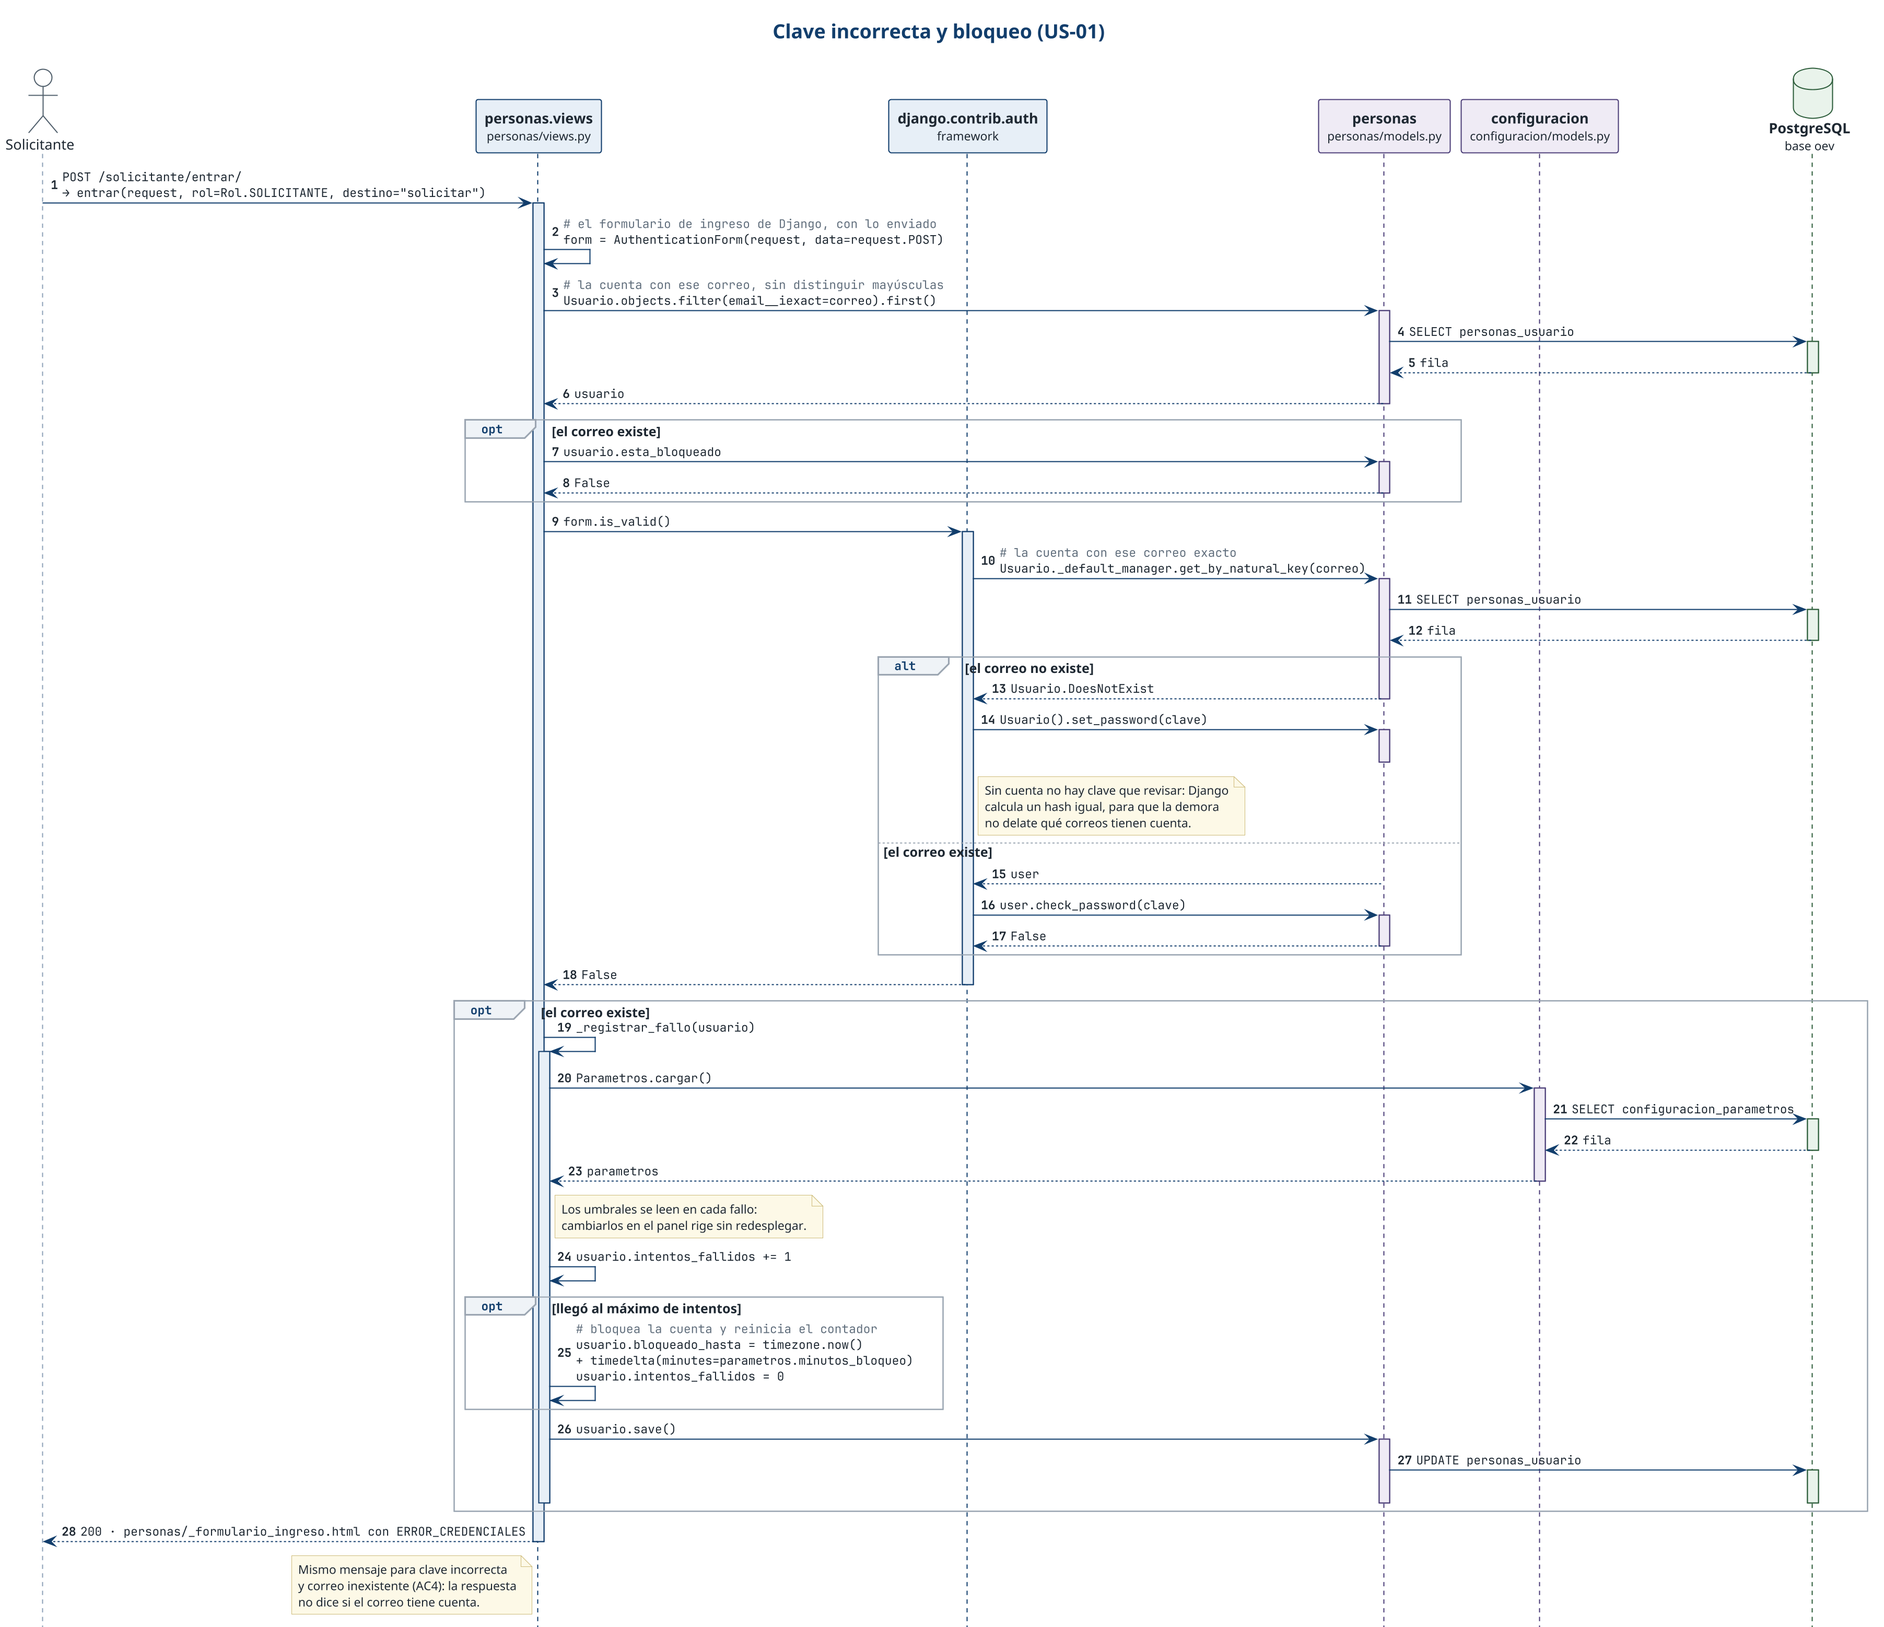
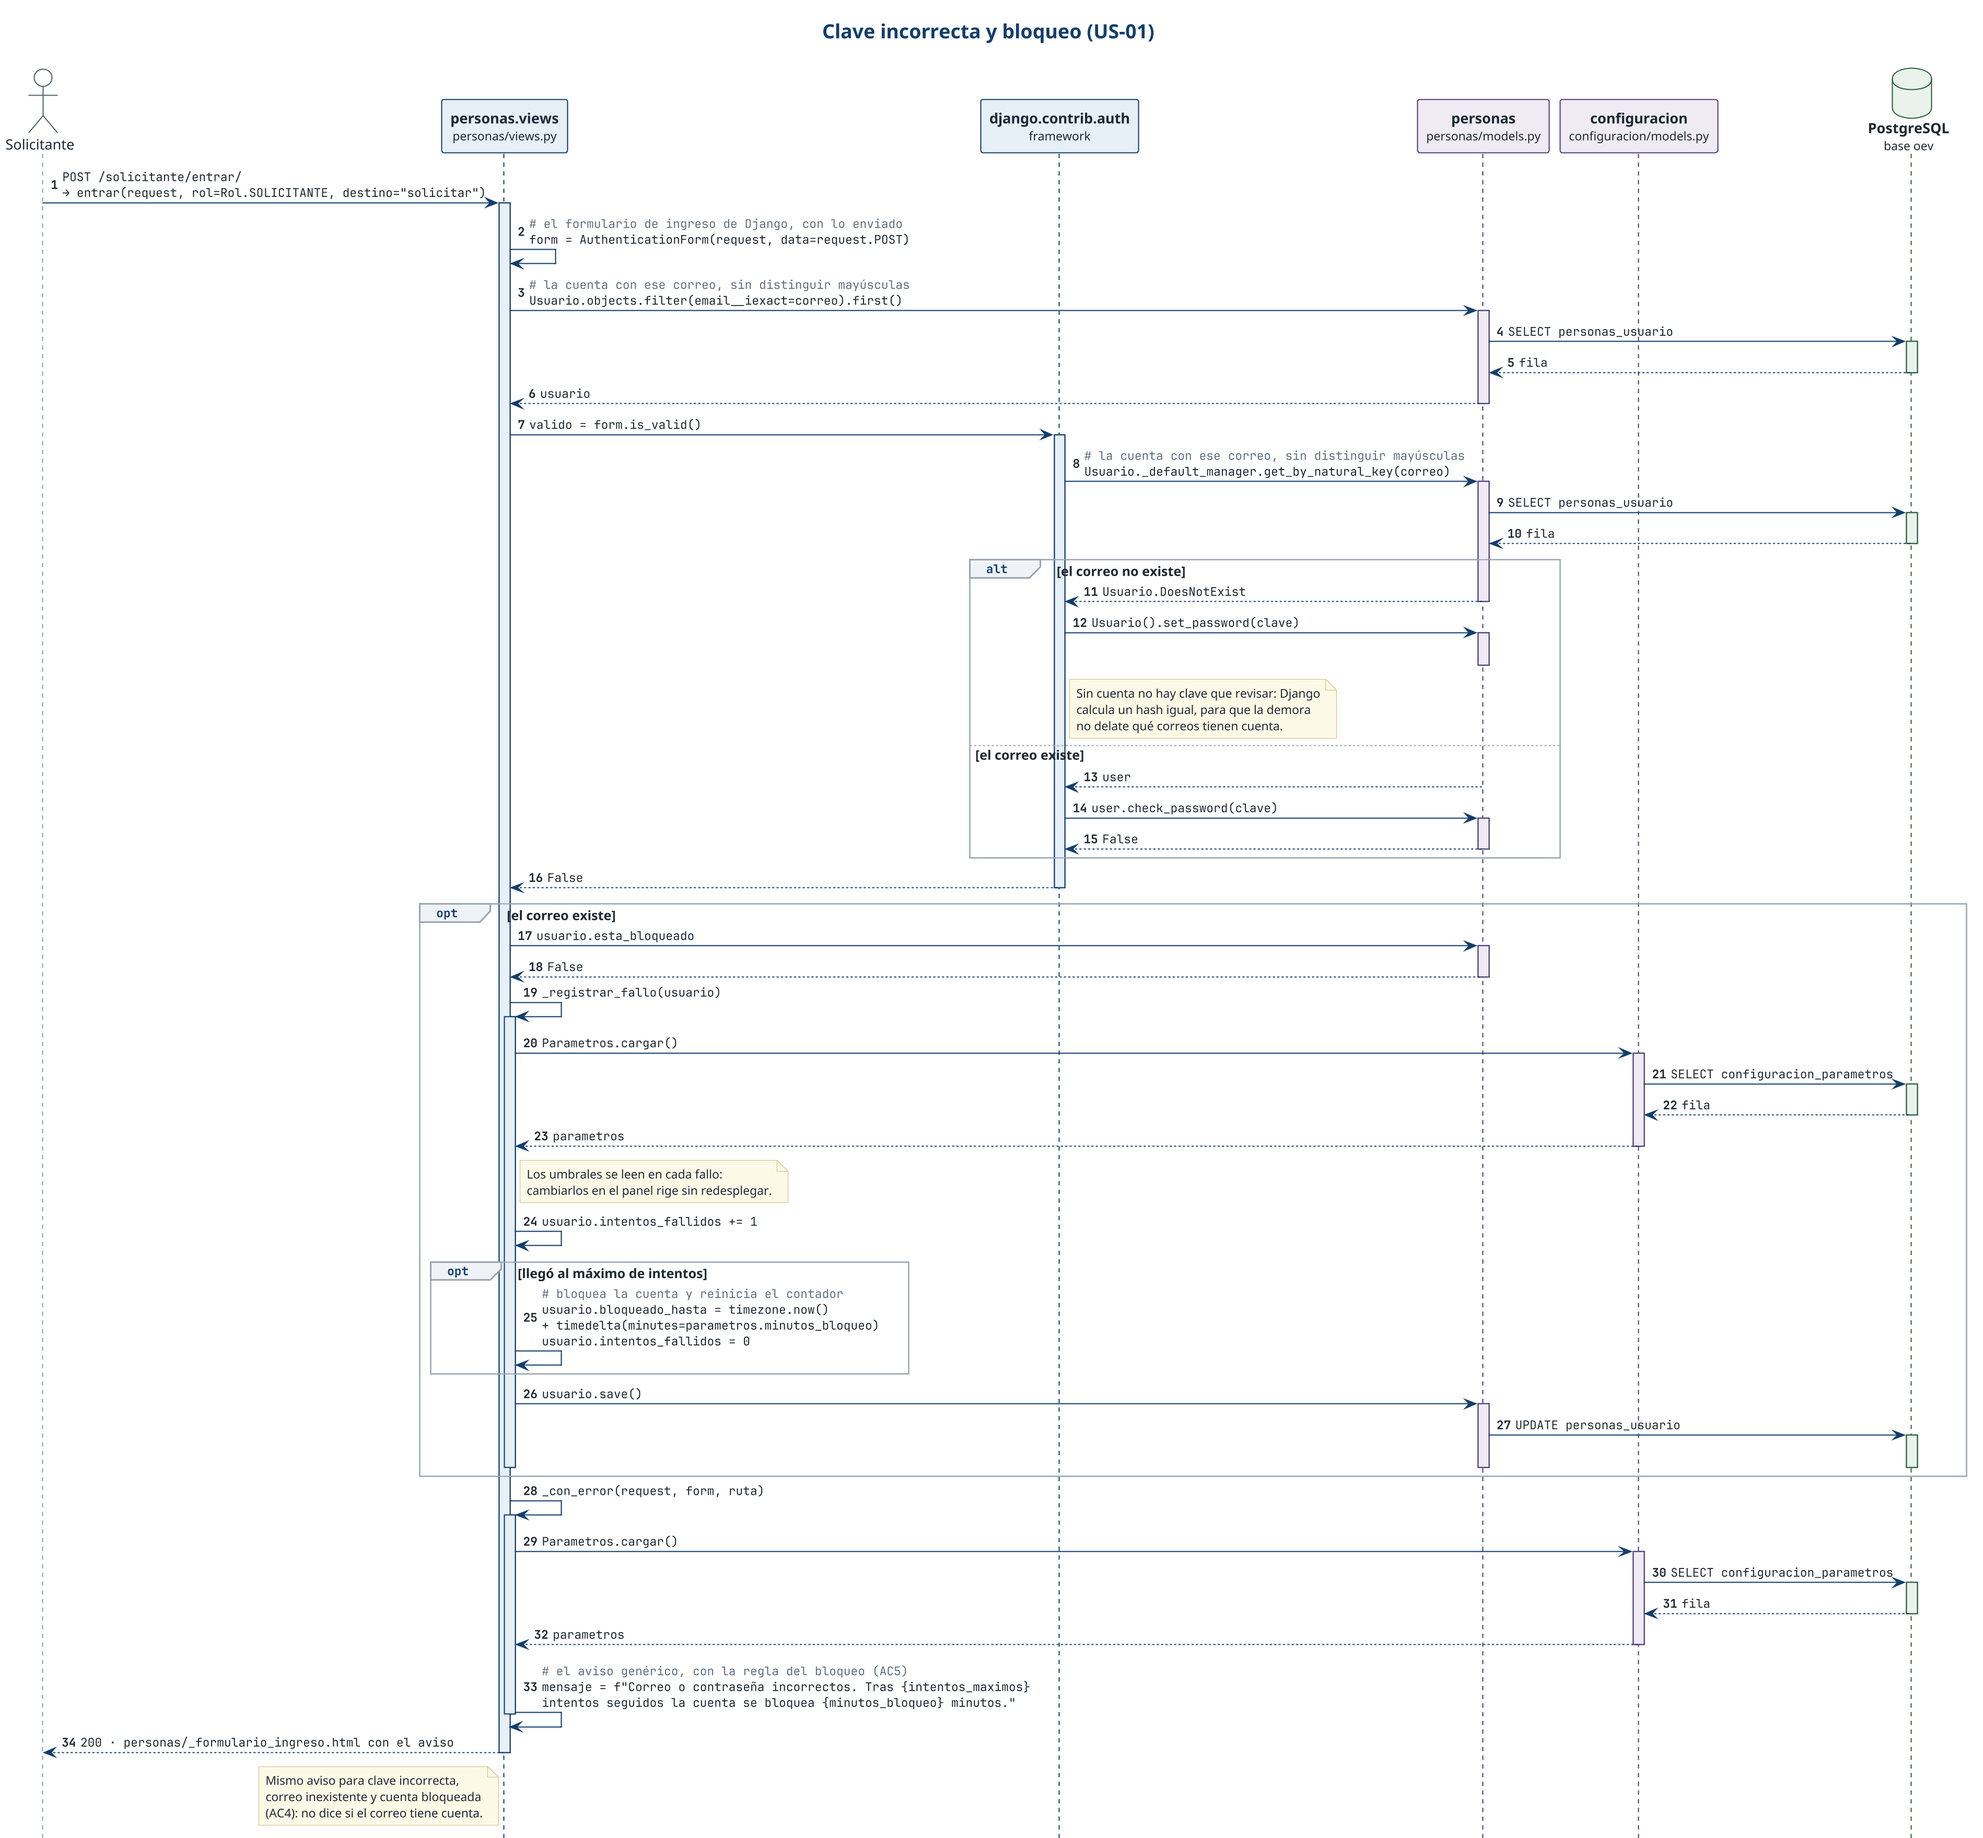
fix(personas): un solo aviso al fallar el ingreso y correo sin mayúsculas (#25)

diff --git a/src/personas/views.py b/src/personas/views.py
@@ -12,9 +12,6 @@ from configuracion.models import Parametros
 
 from .models import Rol, Usuario
 
-# AC4: el mismo texto para credenciales malas y para correo inexistente. Decir
-# "ese correo no existe" le regalaría al atacante la lista de cuentas.
-ERROR_CREDENCIALES = "Correo o contraseña incorrectos."
 
 
 def destino_tras_login(usuario):
@@ -38,7 +35,16 @@ def destino_tras_login(usuario):
     return reverse("solicitar")
 
 
-def _con_error(request, form, mensaje, ruta):
+def _con_error(request, form, ruta):
+    """AC4: el mismo texto para clave mala, correo inexistente, cuenta sin el rol
+    de la puerta y cuenta bloqueada. Cualquier diferencia le regalaría al atacante
+    la lista de cuentas. La regla del bloqueo (AC5) va en el texto para que quien
+    quedó bloqueado entienda por qué no entra."""
+    parametros = Parametros.cargar()
+    mensaje = (
+        f"Correo o contraseña incorrectos. Tras {parametros.intentos_maximos} intentos "
+        f"seguidos la cuenta se bloquea {parametros.minutos_bloqueo} minutos."
+    )
     return render(
         request,
         "personas/_formulario_ingreso.html",
@@ -81,20 +87,20 @@ def entrar(request, rol, destino, ruta, titulo):
 
     form = AuthenticationForm(request, data=request.POST)
     usuario = Usuario.objects.filter(email__iexact=request.POST.get("username", "")).first()
+    # Se revisa la clave aunque la cuenta esté bloqueada: si no, la respuesta
+    # rápida (sin calcular el hash) delataría qué cuentas existen.
+    valido = form.is_valid()
 
     if usuario and usuario.esta_bloqueado:
-        minutos = max(1, int((usuario.bloqueado_hasta - timezone.now()).total_seconds() // 60) + 1)
-        return _con_error(
-            request, form, f"Cuenta bloqueada. Vuelve a intentar en {minutos} minutos.", ruta
-        )
+        return _con_error(request, form, ruta)
 
-    if form.is_valid():
+    if valido:
         entrante = form.get_user()
         # Una puerta de rol no responde "no eres administrador". Ese mensaje la
         # convertiría en un oráculo para saber qué correos existen y cuáles
         # mandan, así que contesta lo mismo que una clave mala, y sin sesión.
         if not _puede_pasar(entrante, rol):
-            return _con_error(request, form, ERROR_CREDENCIALES, ruta)
+            return _con_error(request, form, ruta)
         if entrante.intentos_fallidos or entrante.bloqueado_hasta:
             entrante.intentos_fallidos = 0
             entrante.bloqueado_hasta = None
@@ -105,7 +111,7 @@ def entrar(request, rol, destino, ruta, titulo):
 
     if usuario:
         _registrar_fallo(usuario)
-    return _con_error(request, form, ERROR_CREDENCIALES, ruta)
+    return _con_error(request, form, ruta)
 
 
 @login_required

diff --git a/src/personas/models.py b/src/personas/models.py
@@ -52,6 +52,12 @@ class UsuarioManager(UserManager):
         extra.setdefault("is_superuser", True)
         return self.create_user(email, password, **extra)
 
+    def get_by_natural_key(self, email):
+        # US-01: el correo no distingue mayúsculas, igual que la búsqueda con que
+        # la vista cuenta los intentos. Antes «Ana@uach.cl» con su clave correcta
+        # sumaba fallos hasta quedar bloqueada.
+        return self.get(email__iexact=email)
+
 
 class Usuario(AbstractUser):
     """US-01 AC1: se entra con correo, no con nombre de usuario.
@@ -78,6 +84,12 @@ class Usuario(AbstractUser):
 
     def __str__(self):
         return self.email
+
+    def save(self, *args, **kwargs):
+        # En minúsculas, así dos cuentas no pueden diferir solo en mayúsculas y
+        # `get_by_natural_key` nunca encuentra dos.
+        self.email = self.email.lower()
+        super().save(*args, **kwargs)
 
     def tiene_rol(self, *roles):
         """Si pertenece a alguno de esos grupos, en una sola consulta."""

diff --git a/docs/uso.md b/docs/uso.md
@@ -42,18 +42,20 @@ desde el sitio; las otras tres las conoce quien las usa.
 ### Si no puedes entrar
 
 Si el correo o la contraseña no coinciden, aparece el aviso **Correo o
-contraseña incorrectos.** y el correo queda escrito para que no tengas que
-repetirlo.
+contraseña incorrectos.**, junto con cuántos intentos seguidos bloquean la cuenta
+y por cuántos minutos. El correo queda escrito para que no tengas que repetirlo.
+Las mayúsculas del correo no importan.
 
 ![Aviso de credenciales incorrectas](uso/us-01/ingreso-error.jpg)
 
-El aviso es el mismo cuando el correo no existe o cuando la cuenta no tiene el
-rol de esa puerta. Así nadie puede usar la pantalla para averiguar qué cuentas
-existen.
+El aviso es el mismo cuando el correo no existe, cuando la cuenta no tiene el rol
+de esa puerta o cuando está bloqueada. Así nadie puede usar la pantalla para
+averiguar qué cuentas existen.
 
-Después de varios intentos fallidos seguidos, la cuenta se bloquea por unos
-minutos y la pantalla indica cuánto falta. Cuántos intentos y cuántos minutos lo
-decide el administrador (ver [Reglas](#reglas-los-parámetros-del-sistema)).
+Después de esos intentos fallidos seguidos, la cuenta se bloquea por esos
+minutos: mientras dure, ni la contraseña correcta la abre. Cuántos intentos y
+cuántos minutos lo decide el administrador (ver
+[Reglas](#reglas-los-parámetros-del-sistema)).
 
 ### Recuperar la contraseña
 

diff --git a/docs/diagramas.md b/docs/diagramas.md
@@ -44,7 +44,12 @@ de la puerta responde el mismo error que una clave mala, sin abrir sesión y sin
 sumar un intento, porque la clave era correcta (AC4).
 
 `django.contrib.auth` busca la cuenta y revisa la clave a través de
-`personas`, porque `Usuario` es el modelo de usuario del proyecto.
+`personas`, porque `Usuario` es el modelo de usuario del proyecto. La busca sin
+distinguir mayúsculas (`get_by_natural_key`), igual que la vista que cuenta los
+intentos: así un correo escrito con otras mayúsculas no suma fallos.
+
+Con la cuenta bloqueada la clave se revisa igual y la respuesta es el mismo
+aviso que una clave mala: ni el texto ni la demora dicen que la cuenta existe.
 
 ![Clave incorrecta y bloqueo](diagramas/us-01/intento-fallido.png)
 
